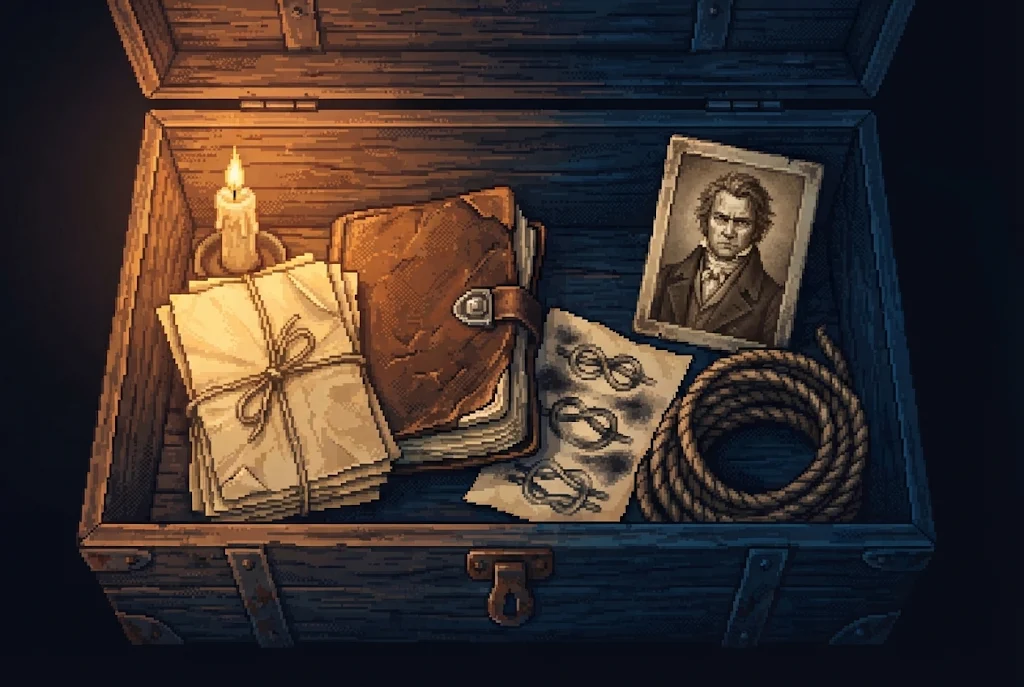
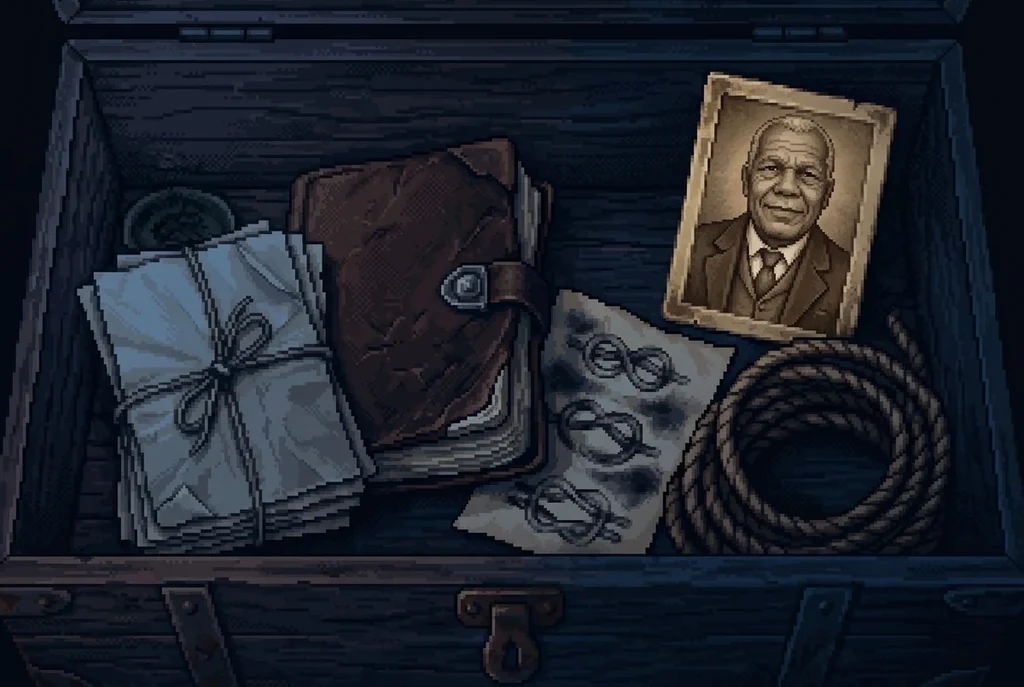
Baú novo com o retrato do carrasco
Claude-Session: https://claude.ai/code/session_01EDVf1EFUhdHmvNwVV18pfV

diff --git a/sw.js b/sw.js
@@ -1,5 +1,5 @@
-const V='pecados-v6';
-const FILES=["./", "index.html", "manifest.webmanifest", "icon-192.png", "icon-512.png", "apple-touch-icon.png", "batidas.mp3", "bau.mp3", "bauaberto.webp", "cafe.mp3", "capela.mp3", "capeladentro.webp", "capelafora.webp", "casa-vo.mp3", "casafora.webp", "chuva-dentro.mp3", "chuva.mp3", "dano.mp3", "degrau.mp3", "delegacia.mp3", "delegacia.webp", "g_legL.webp", "g_legR.webp", "g_torso.webp", "gia0.webp", "gia1.webp", "gia2.webp", "gia3.webp", "gia4.webp", "gia5.webp", "gib0.webp", "gib1.webp", "gib2.webp", "gib3.webp", "gib4.webp", "gib5.webp", "gib6.webp", "gic0.webp", "gic1.webp", "gic2.webp", "gic3.webp", "gic4.webp", "gic5.webp", "gic6.webp", "guilherme.webp", "gw0.webp", "gw1.webp", "gw2.webp", "gw3.webp", "gw4.webp", "gw5.webp", "helena.webp", "i_bilhete.webp", "i_corda.webp", "i_dinheiro.webp", "i_ficha.webp", "i_isqueiro.webp", "i_nota.webp", "i_petisco.webp", "i_vela.webp", "i_velaacesa.webp", "isqueiro.mp3", "izabel.webp", "latido.mp3", "marlene.webp", "musica.mp3", "nathalia.webp", "nori0.webp", "nori1.webp", "nori2.webp", "ns0.webp", "ns1.webp", "ns2.webp", "ns3.webp", "p_guilherme.webp", "p_helena.webp", "p_izabel.webp", "p_marlene.webp", "p_nathalia.webp", "p_pedro.webp", "p_plantonista.webp", "p_sarah.webp", "parede.webp", "passos-madeira.mp3", "passos-rua.mp3", "pd0.webp", "pd1.webp", "pd2.webp", "pd3.webp", "pd4.webp", "pd5.webp", "pedro.webp", "pegar.mp3", "pg0.webp", "pg1.webp", "pg2.webp", "pg3.webp", "pg4.webp", "pg5.webp", "pista.mp3", "plantonista.webp", "porao.mp3", "porao.webp", "porta.mp3", "portao.mp3", "praia.mp3", "redacao.mp3", "redacao.webp", "rosnado.mp3", "rua.webp", "sala.webp", "sala_raio.webp", "sarah.webp", "sebo.webp", "sino.mp3", "sussurros.mp3", "susto.mp3", "taxi.mp3", "telefone.mp3", "tiana0.webp", "tiana1.webp", "tiana2.webp"];
+const V='pecados-v7';
+const FILES=["./", "index.html", "manifest.webmanifest", "icon-192.png", "icon-512.png", "apple-touch-icon.png", "batidas.mp3", "bau.mp3", "bauaberto.webp", "cafe.mp3", "capela.mp3", "capeladentro.webp", "capelafora.webp", "capoeira.webp", "casa-vo.mp3", "casafora.webp", "catedral.webp", "cemiterio.webp", "chuva-dentro.mp3", "chuva.mp3", "dano.mp3", "degrau.mp3", "delegacia.mp3", "delegacia.webp", "g_legL.webp", "g_legR.webp", "g_torso.webp", "gia0.webp", "gia1.webp", "gia2.webp", "gia3.webp", "gia4.webp", "gia5.webp", "gib0.webp", "gib1.webp", "gib2.webp", "gib3.webp", "gib4.webp", "gib5.webp", "gib6.webp", "gic0.webp", "gic1.webp", "gic2.webp", "gic3.webp", "gic4.webp", "gic5.webp", "gic6.webp", "guilherme.webp", "gw0.webp", "gw1.webp", "gw2.webp", "gw3.webp", "gw4.webp", "gw5.webp", "helena.webp", "i_bilhete.webp", "i_corda.webp", "i_dinheiro.webp", "i_ficha.webp", "i_isqueiro.webp", "i_nota.webp", "i_petisco.webp", "i_vela.webp", "i_velaacesa.webp", "iml.webp", "isqueiro.mp3", "izabel.webp", "largo.webp", "latido.mp3", "marlene.webp", "musica.mp3", "nathalia.webp", "nori0.webp", "nori1.webp", "nori2.webp", "ns0.webp", "ns1.webp", "ns2.webp", "ns3.webp", "p_guilherme.webp", "p_helena.webp", "p_izabel.webp", "p_marlene.webp", "p_nathalia.webp", "p_pedro.webp", "p_plantonista.webp", "p_sarah.webp", "parede.webp", "passos-madeira.mp3", "passos-rua.mp3", "pd0.webp", "pd1.webp", "pd2.webp", "pd3.webp", "pd4.webp", "pd5.webp", "pedro.webp", "pegar.mp3", "pg0.webp", "pg1.webp", "pg2.webp", "pg3.webp", "pg4.webp", "pg5.webp", "pista.mp3", "plantonista.webp", "porao.mp3", "porao.webp", "porta.mp3", "portao.mp3", "praia.mp3", "redacao.mp3", "redacao.webp", "rosnado.mp3", "rua.webp", "sala.webp", "sala_raio.webp", "sarah.webp", "sebo.webp", "sino.mp3", "sussurros.mp3", "susto.mp3", "taxi.mp3", "telefone.mp3", "tiana0.webp", "tiana1.webp", "tiana2.webp"];
 self.addEventListener('install',e=>{e.waitUntil(caches.open(V).then(c=>c.addAll(FILES)).then(()=>self.skipWaiting()))});
 self.addEventListener('activate',e=>{e.waitUntil(caches.keys().then(ks=>Promise.all(ks.filter(k=>k!==V).map(k=>caches.delete(k)))).then(()=>self.clients.claim()))});
 self.addEventListener('fetch',e=>{if(e.request.method!=='GET')return;const u=new URL(e.request.url);

diff --git a/index.html b/index.html
@@ -499,14 +499,13 @@ async function abrirBau(){if(S.flags.bauAberto)return fadeTo('bau');
 SC.bau={amb:'casa-vo',img:'bauaberto',noWalk:1,
   exits:[{l:'Fechar',r:[0,580,170,107],to:'sala'}],
   hots:[
-    {l:'Cartas antigas',r:[155,250,240,260],olhar:async()=>{await narr('Cartas de 1821, assinadas por Joaquim Medeiros: "A corda arrebentou três vezes. O povo pediu perdão. Na quarta, cumpri a ordem."');await pista(10,'um Medeiros foi o carrasco do Chaguinhas.');await checkBau()},pegar:async()=>SC.bau.hots[0].olhar()},
-    {l:'Diário do vô',r:[330,185,215,285],olhar:async()=>{await narr('Diário do vô José Marcelino: "A Irmandade dos Três Nós voltou. Querem o sangue do último Medeiros para fechar o ritual num 20 de setembro."');await pista(11,'a Irmandade dos Três Nós quer o sangue do último Medeiros.');await checkBau()},pegar:async()=>SC.bau.hots[1].olhar()},
-    {l:'Desenho dos três nós',r:[465,310,225,210],olhar:'Os três nós a carvão. Embaixo, na letra do vô: "Um nó para cada vez que a corda arrebentou."'},
-    {l:'Retrato antigo',r:[635,135,185,210],olhar:async()=>{if(!S.pistas.includes(12)){await narr('"Joaquim Medeiros, 1821". O carrasco.');await scare(1,'Ele tem os seus olhos.');await pista(12,'o retrato do carrasco Joaquim Medeiros, de 1821.')}else await narr('Os mesmos olhos. Prefiro não encarar.');await checkBau()}},
-    {l:'Corda',r:[640,330,225,190],olhar:'Um rolo de corda velha de cânhamo.',pegar:async()=>{if(has('corda'))return G('Já está comigo.');give('corda');await pista(13,'um pedaço da corda original do Largo da Forca.');await checkBau()}},
-    {l:'Vela',r:[205,140,70,135],olhar:'A vó acendeu essa vela dentro do baú. "Pra luz não deixar ele fugir", ela disse.'}
+    {l:'Cartas antigas',r:[80,225,295,325],olhar:async()=>{await narr('Cartas de 1821, assinadas por Joaquim Medeiros: "A corda arrebentou três vezes. O povo pediu perdão. Na quarta, cumpri a ordem."');await pista(10,'um Medeiros foi o carrasco do Chaguinhas.');await checkBau()},pegar:async()=>SC.bau.hots[0].olhar()},
+    {l:'Diário do vô',r:[290,140,262,330],olhar:async()=>{await narr('Diário do vô José Marcelino: "A Irmandade dos Três Nós voltou. Querem o sangue do último Medeiros para fechar o ritual num 20 de setembro."');await pista(11,'a Irmandade dos Três Nós quer o sangue do último Medeiros.');await checkBau()},pegar:async()=>SC.bau.hots[1].olhar()},
+    {l:'Desenho dos três nós',r:[455,292,280,262],olhar:'Os três nós a carvão. Embaixo, na letra do vô: "Um nó para cada vez que a corda arrebentou."'},
+    {l:'Retrato antigo',r:[665,70,232,270],olhar:async()=>{if(!S.pistas.includes(12)){await narr('No verso: "Joaquim Medeiros, 1821". O carrasco. O rosto é quase o do vô José Marcelino.');await scare(1,'Ele tem os seus olhos.');await pista(12,'o retrato do carrasco Joaquim Medeiros, de 1821.')}else await narr('Os mesmos olhos. Prefiro não encarar.');await checkBau()}},
+    {l:'Corda',r:[665,340,290,215],olhar:'Um rolo de corda velha de cânhamo.',pegar:async()=>{if(has('corda'))return G('Já está comigo.');give('corda');await pista(13,'um pedaço da corda original do Largo da Forca.');await checkBau()}}
   ],
-  async enter(){if(!S.flags.bauVisto){S.flags.bauVisto=1;await narr('Dentro do baú: cartas, um diário, um retrato, um desenho e um rolo de corda velha.')}}
+  async enter(){if(!S.flags.bauVisto){S.flags.bauVisto=1;await narr('Dentro do baú: cartas amarradas, um diário, um desenho, um retrato antigo e um rolo de corda velha.')}}
 };
 async function checkBau(){if(S.flags.fim)return;if([10,11,12,13].every(n=>S.pistas.includes(n))){await G('Meu sangue é o que eles querem pra terminar o que começou em 1821.');await fimCap1()}}
 
